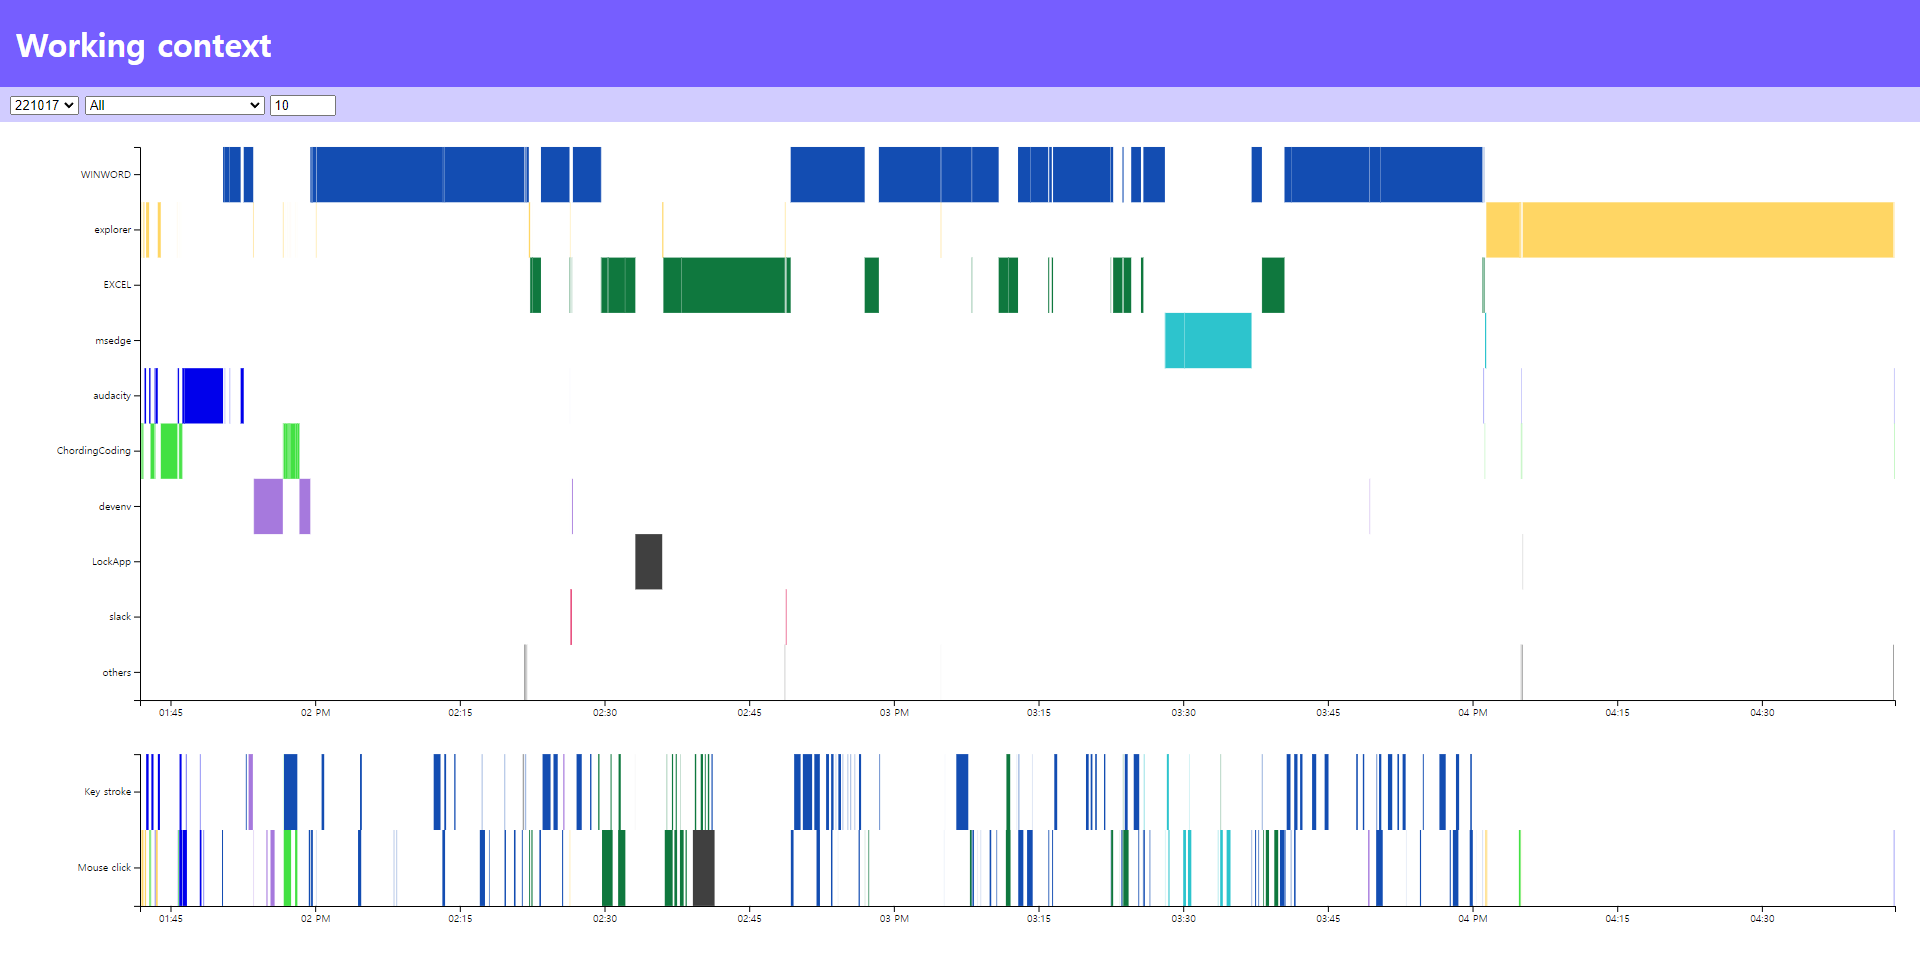
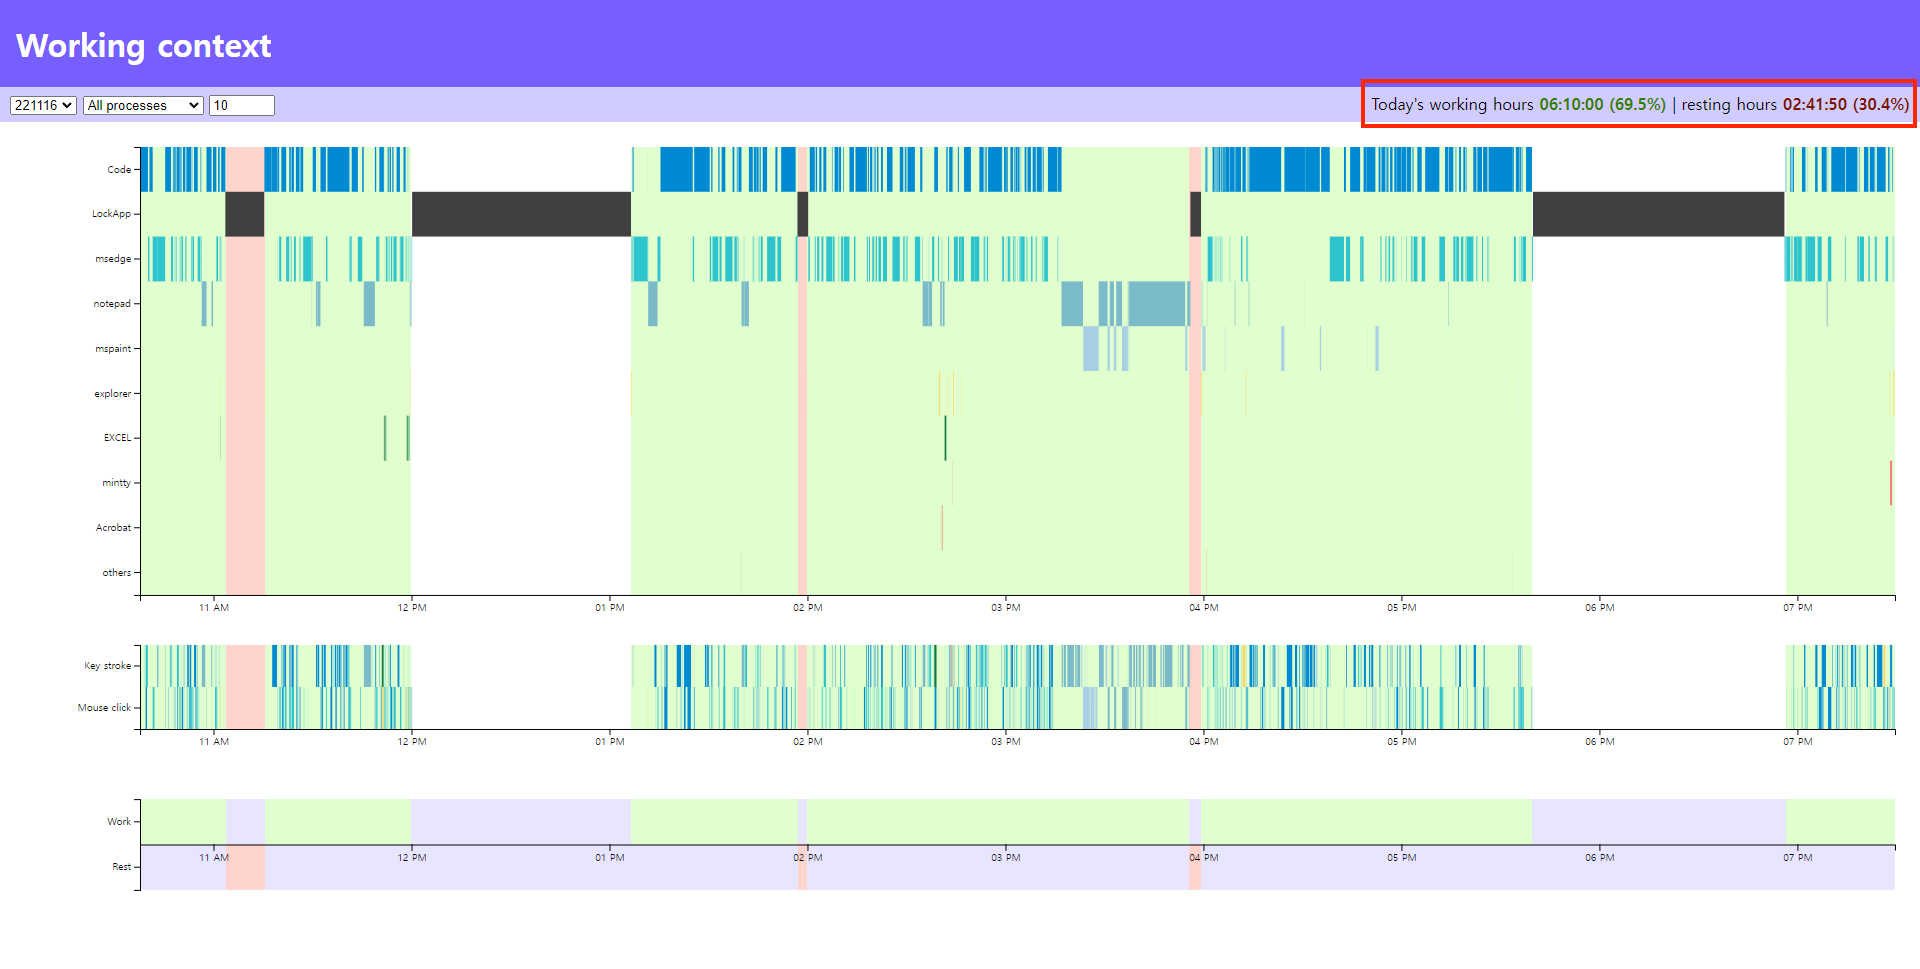
v1.8.3.1 change color coding, add annotating functionality, etc

diff --git a/WorkingContext.html b/WorkingContext.html
@@ -29,16 +29,6 @@
       display: none;
     }
     #work-button {
-      background-color: #FFD4CC;
-      background-image: linear-gradient(to top left,
-                                      rgba(0, 0, 0, .2),
-                                      rgba(0, 0, 0, .2) 30%,
-                                      rgba(0, 0, 0, 0));
-      color: black;
-      border: #D83C20 2px;
-      border-radius: 2px;
-    }
-    #rest-button {
       background-color: #E1FFCE;
       background-image: linear-gradient(to top left,
                                       rgba(0, 0, 0, .2),
@@ -48,9 +38,25 @@
       border: #64D820 2px;
       border-radius: 2px;
     }
+    #rest-button {
+      background-color: #FFD4CC;
+      background-image: linear-gradient(to top left,
+                                      rgba(0, 0, 0, .2),
+                                      rgba(0, 0, 0, .2) 30%,
+                                      rgba(0, 0, 0, 0));
+      color: black;
+      border: #D83C20 2px;
+      border-radius: 2px;
+    }
     #working-hours {
       float: right;
       padding-right: 10px;
+    }
+    .time {
+      color: #307F00;
+    }
+    .rest-time {
+      color: #7F1300;
     }
   </style>
 </head>
@@ -64,7 +70,7 @@
       <select id="foreground-filter"></select>
       <input id="filter" type="number" min="1" max="20" value="10"/>
     </span>
-    <span id="working-hours">Today's working hours <b class="time">00:00:00</b></span>
+    <span id="working-hours">Today's working hours <b class="time">00:00:00 (0%)</b> | resting hours <b class="rest-time">00:00:00 (100%)</b></span>
   </div>
   <div id="global"></div>
   <!--div id="foreground"></div>
@@ -166,7 +172,7 @@
       .attr('class', 'annotating-button')
       .attr('text-anchor', 'middle')
       .append('text')
-      .text('Mark as "Work" time')
+      .text("Mark as 'work' time")
       .attr("fill", "black")
       .attr('x', 96)
       .attr('y', 25);
@@ -179,8 +185,8 @@
       .attr('ry', 5)
       .attr("width", 192)
       .attr("height", 40)
-      .attr("fill", "#BF1C00")
-      .attr("stroke", "#330600")
+      .attr("fill", "#5BE500")
+      .attr("stroke", "#143300")
       .attr("opacity", 0.4)
       .on("mouseover", function() {
         d3.select(this)
@@ -193,7 +199,7 @@
 
     d3.select('.annotating-button')
       .append('text')
-      .text('Mark as "Rest" time')
+      .text("Mark as 'rest' time")
       .attr("fill", "black")
       .attr('x', 96)
       .attr('y', svgHeight3 - 15);
@@ -206,16 +212,16 @@
       .attr('ry', 5)
       .attr("width", 192)
       .attr("height", 40)
-      .attr("fill", "#47B200")
-      .attr("stroke", "#143300")
-      .attr("opacity", 0.37)
+      .attr("fill", "#FF2100")
+      .attr("stroke", "#330600")
+      .attr("opacity", 0.4)
       .on("mouseover", function() {
         d3.select(this)
           .attr("opacity", 0.5);
       })
       .on("mouseout", function() {
         d3.select(this)
-          .attr("opacity", 0.37);
+          .attr("opacity", 0.4);
       });
     
     svg1 = svg1
@@ -270,7 +276,7 @@
 
     d3.select('#work-button')
       .on('click', function() {
-        console.log("click work button")
+        //console.log("click work button")
         if (brushedEndTime - brushedStartTime < 60000) return;
         let newAData = annotationData.find(e => e.date === d3.select('#date').node().value).data;
         newAData.push({
@@ -285,7 +291,7 @@
       
     d3.select('#rest-button')
       .on('click', function() {
-        console.log("click rest button")
+        //console.log("click rest button")
         if (brushedEndTime - brushedStartTime < 60000) return;
         let newAData = annotationData.find(e => e.date === d3.select('#date').node().value).data;
         newAData.push({
@@ -357,8 +363,6 @@
 
         // reassign first element to the last element
         this.values[0] = end;
-        console.log("extractMax")
-        console.log({...this.values});
         // heapify down until element is back in its correct position
         this.heapifyDown(0);
     
@@ -413,8 +417,8 @@
       }
 
       delete(element) {
-        console.log(element)
-        console.log(this.values)
+        //console.log(element)
+        //console.log(this.values)
         let deletingIndex = this.values.findIndex(e => e.order === element.order);
         this.values[deletingIndex].order = this.values[0].order + 1;
         this.heapifyUp(deletingIndex);
@@ -618,14 +622,14 @@
       
       d3.select('#foreground-filter')
         .selectAll('option')
-        .data([{'process': 'All'}].concat(thisPData), e => e.process)
+        .data([{'process': 'All processes'}].concat(thisPData), e => e.process)
         .join('option')
         .append('option')
         .property('value', d => d.process)
         .text(d => d.process);
       let foregroundFilter = d3.select('#foreground-filter').node().value;
       let processFilterNum = d3.select('#filter').node().value - 1;
-      if (foregroundFilter !== "All") {
+      if (foregroundFilter !== "All processes") {
         //d3.select('#filter').attr("disabled", true);
         thisFData = thisFData.filter(e => e.process === foregroundFilter);
         thisEData = thisEData.filter(e => e.process === foregroundFilter);
@@ -696,7 +700,7 @@
           tempMaxHeap.delete({'order': e.order, 'annotation': e.annotation});
         }
       });
-      console.log(newSeparators);
+      //console.log(newSeparators);
 
       thisAData = [];
       let count = 0;
@@ -714,7 +718,19 @@
           }
         }
       });
-      console.log(thisAData);
+
+      function annotationToStr(annotationData) {
+        let annotationJson = "{'date': '" + date + "', 'data': [";
+        annotationData.forEach((e, i, array) => {
+          annotationJson += "{'id': " + e.id;
+          annotationJson += ", 'start': " + e.start * 1;
+          annotationJson += ", 'end': " + e.end * 1;
+          annotationJson += ", 'annotation': '"  + e.annotation + "''}";
+          if (i < array.length - 1) annotationJson += ", ";
+        })
+        return annotationJson + "]}";
+      }
+      console.log(annotationToStr(thisAData));
       
       function millisecondToStr(millisecond) {
         if (millisecond < 0) millisecond *= -1;
@@ -727,8 +743,13 @@
         return hour + ":" + minute + ":" + second;
       }
 
+      let restingHours = (thisData[thisData.length - 1].time - thisData[0].time) - workingHours;
+
       d3.select('.time')
-        .text(millisecondToStr(workingHours));
+        .text(millisecondToStr(workingHours) + " (" + (Math.floor(workingHours * 1000 / (thisData[thisData.length - 1].time - thisData[0].time)) / 10) + "%)");
+
+      d3.select('.rest-time')
+        .text(millisecondToStr(restingHours) + " (" + (Math.floor(restingHours * 1000 / (thisData[thisData.length - 1].time - thisData[0].time)) / 10) + "%)");
 
       let barX = d3.scaleTime()
         .domain([
@@ -863,8 +884,8 @@
         .attr('y', d => bar2Y(d.type))
         .attr('height', bar2Y.bandwidth())
         .attr("clip-path", 'url(#clip2)')
-        .style('fill', d => foregroundFilter === 'All' ? bar1Color(d.process) : bar2Color(d.type))
-        .style('opacity', d => foregroundFilter === 'All' ? 1 : d.count * 200 / Math.abs(d.offset - d.onset))
+        .style('fill', d => foregroundFilter === 'All processes' ? bar1Color(d.process) : bar2Color(d.type))
+        .style('opacity', d => foregroundFilter === 'All processes' ? 1 : d.count * 200 / Math.abs(d.offset - d.onset))
 
       let bar2Update = graph2.selectAll('rect')
         .data(thisEData, d => d.id)
@@ -873,8 +894,8 @@
         .attr('y', d => bar2Y(d.type))
         .attr('height', bar2Y.bandwidth())
         .attr("clip-path", 'url(#clip2)')
-        .style('fill', d => foregroundFilter === 'All' ? bar1Color(d.process) : bar2Color(d.type))
-        .style('opacity', d => foregroundFilter === 'All' ? 1 : d.count * 200 / Math.abs(d.offset - d.onset))
+        .style('fill', d => foregroundFilter === 'All processes' ? bar1Color(d.process) : bar2Color(d.type))
+        .style('opacity', d => foregroundFilter === 'All processes' ? 1 : d.count * 200 / Math.abs(d.offset - d.onset))
 
       let bar2Exit = graph2.selectAll('rect')
         .data(thisEData, d => d.id)
@@ -890,7 +911,7 @@
         .attr('y', d => bar3Y(d.annotation))
         .attr('height', bar3Y.bandwidth())
         .attr("clip-path", 'url(#clip3)')
-        .style('fill', d => d.annotation === 'Work' ? '#FFD4CC' : '#E1FFCE')
+        .style('fill', d => d.annotation === 'Work' ? '#E1FFCE' : '#FFD4CC')
         .style('opacity', 1)
   
       let bar3Update = graph3.selectAll('rect')
@@ -900,7 +921,7 @@
         .attr('y', d => bar3Y(d.annotation))
         .attr('height', bar3Y.bandwidth())
         .attr("clip-path", 'url(#clip3)')
-        .style('fill', d => d.annotation === 'Work' ? '#FFD4CC' : '#E1FFCE')
+        .style('fill', d => d.annotation === 'Work' ? '#E1FFCE' : '#FFD4CC')
   
       let bar3Exit = graph3.selectAll('rect')
         .data(thisAData, d => d.id)
@@ -916,7 +937,7 @@
         .attr("y", margin1.top)
         .attr("width", d => Math.abs(barXZoomed(d.end) - barXZoomed(d.start)))
         .attr("height", svgHeight1 - margin1.top - margin1.bottom)
-        .style('fill', d => d.annotation === 'Work' ? '#FFD4CC' : '#E1FFCE');
+        .style('fill', d => d.annotation === 'Work' ? '#E1FFCE' : '#FFD4CC');
 
       let bar3Link1Update = d3.select('#annotated-area1')
         .selectAll('rect')
@@ -925,7 +946,7 @@
         .attr("y", margin1.top)
         .attr("width", d => Math.abs(barXZoomed(d.end) - barXZoomed(d.start)))
         .attr("height", svgHeight1 - margin1.top - margin1.bottom)
-        .style('fill', d => d.annotation === 'Work' ? '#FFD4CC' : '#E1FFCE');
+        .style('fill', d => d.annotation === 'Work' ? '#E1FFCE' : '#FFD4CC');
 
       let bar3Link1Exit = d3.select('#annotated-area1')
         .selectAll('rect')
@@ -944,7 +965,7 @@
         .attr("y", margin2.top)
         .attr("width", d => Math.abs(barXZoomed(d.end) - barXZoomed(d.start)))
         .attr("height", svgHeight2 - margin2.top - margin2.bottom)
-        .style('fill', d => d.annotation === 'Work' ? '#FFD4CC' : '#E1FFCE');
+        .style('fill', d => d.annotation === 'Work' ? '#E1FFCE' : '#FFD4CC');
 
       let bar3Link2Update = d3.select('#annotated-area2')
         .selectAll('rect')
@@ -953,7 +974,7 @@
         .attr("y", margin2.top)
         .attr("width", d => Math.abs(barXZoomed(d.end) - barXZoomed(d.start)))
         .attr("height", svgHeight2 - margin2.top - margin2.bottom)
-        .style('fill', d => d.annotation === 'Work' ? '#FFD4CC' : '#E1FFCE');
+        .style('fill', d => d.annotation === 'Work' ? '#E1FFCE' : '#FFD4CC');
 
       let bar3Link2Exit = d3.select('#annotated-area2')
         .selectAll('rect')
@@ -981,6 +1002,13 @@
           return d.annotation + " time\nStart: " + d.start + "\nEnd:  " + d.end + "\nDuration: " + millisecondToStr(d.end - d.start);
         });
 
+      bar3Link1Enter.merge(bar3Link1Update)
+        .append('title')
+        .text(d => d.annotation + "\nStart: " + d.start + "\nEnd:  " + d.end + "\nDuration: " + millisecondToStr(d.end - d.start))
+
+      bar3Link2Enter.merge(bar3Link2Update)
+        .append('title')
+        .text(d => d.annotation + "\nStart: " + d.start + "\nEnd:  " + d.end + "\nDuration: " + millisecondToStr(d.end - d.start))
       
       
       let zoom1 = d3.zoom()
@@ -1093,11 +1121,6 @@
             .select('.selection')
             .append('title')
             .text("Start: " + brushedStartTime + "\nEnd:  " + brushedEndTime + "\nDuration: " + millisecondToStr(brushedEndTime - brushedStartTime))
-          d3.selectAll('.annotated-area')
-            .selectAll('rect')
-            .append('title')
-            .text(d => d.annotation + "\nStart: " + d.start + "\nEnd:  " + d.end + "\nDuration: " + millisecondToStr(d.end - d.start))
-          
 
           if (brushedEndTime - brushedStartTime >= 60000) {
             // At least 1 minute can be a work time.

diff --git a/README.md b/README.md
@@ -3,8 +3,8 @@
 ## How to use
 * Put your `ChordingCoding_context_log_YYMMDD.csv` in the `./Data/` directory.
   * You can collect your own `ChordingCoding_context_log_YYMMDD.csv` data from [ChordingCoding@v.1.8.3](https://github.com/salt26/chordingcoding/tree/v.1.8.3)
-* Add the following code below the 88th line of `WorkingContext.html`.
-  * `{'filename': './Data/ChordingCoding_context_log_YYMMDD.csv', 'date': 'YYMMDD'},`
+* Add the following code below the 265th line of `WorkingContext.html`.
+  * `{'filename': './Data/ChordingCoding_context_log_YYMMDD.csv'},`
   * Change `YYMMDD` to match the date you collected the data.
 * Start terminal.
 * Type `npx live-server --open="./WorkingContext.html"`
